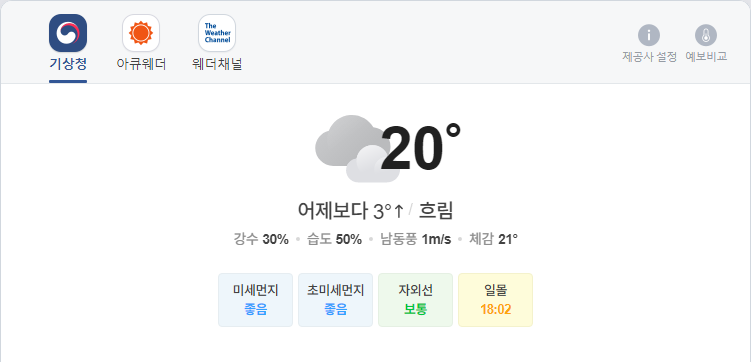
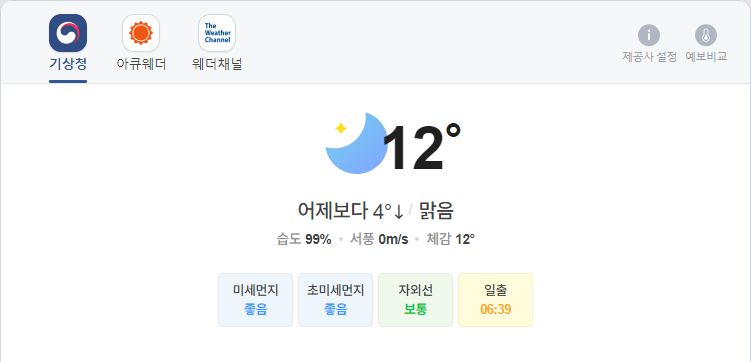
update result

diff --git a/README.md b/README.md
@@ -1,5 +1,5 @@
-##  2021-10-12 16:02:48   화요일 
-##### 날씨   -   어제보다 3° 높아요흐림  
+##  2021-10-13 05:57:43   수요일 
+##### 날씨   -   어제보다 4° 낮아요맑음  
 <center><img src="../img/naver_weather_week.png"></center>
 ----
 ----
@@ -13,17 +13,17 @@
 ##### 세계
 <table border="1" bordercolor="blue" align = "center" >
 <tr align = "right" > <td>Item</td><td>Point</td><td>Diff</td><td>Rate</td><td>Buy</td><td>Sell</td><td>...</td>  </tr>
-<tr align = "right" > <td>DOW</td><td>34,496.06</td><td>-250.19</td><td><font size="3" color="blue" >-0.72%</font></td><td><font size="3" color="black">0</font></td><td><font size="3" color="black">0</font></td><td>0</td>  </tr>
-<tr align = "right" > <td>NASDAQ</td><td>14,486.2</td><td>-93.34</td><td><font size="3" color="blue" >-0.64%</font></td><td><font size="3" color="black">0</font></td><td><font size="3" color="black">0</font></td><td>0</td>  </tr>
-<tr align = "right" > <td>S&P</td><td>4,361.19</td><td>-30.15</td><td><font size="3" color="blue" >-0.69%</font></td><td><font size="3" color="black">0</font></td><td><font size="3" color="black">0</font></td><td>0</td>  </tr>
-<tr align = "right" > <td>SHANHAI</td><td>3,536.9</td><td>-54.81</td><td><font size="3" color="blue" >-1.53%</font></td><td><font size="3" color="black">0</font></td><td><font size="3" color="black">0</font></td><td>0</td>  </tr>
-<tr align = "right" > <td>INDIA</td><td>59,964.48</td><td>-171.3</td><td><font size="3" color="blue" >-0.28%</font></td><td><font size="3" color="black">0</font></td><td><font size="3" color="black">0</font></td><td>0</td>  </tr>
+<tr align = "right" > <td>DOW</td><td>34,378.34</td><td>-117.72</td><td><font size="3" color="blue" >-0.34%</font></td><td><font size="3" color="black">0</font></td><td><font size="3" color="black">0</font></td><td>0</td>  </tr>
+<tr align = "right" > <td>NASDAQ</td><td>14,465.93</td><td>-20.27</td><td><font size="3" color="blue" >-0.14%</font></td><td><font size="3" color="black">0</font></td><td><font size="3" color="black">0</font></td><td>0</td>  </tr>
+<tr align = "right" > <td>S&P</td><td>4,350.65</td><td>-10.54</td><td><font size="3" color="blue" >-0.24%</font></td><td><font size="3" color="black">0</font></td><td><font size="3" color="black">0</font></td><td>0</td>  </tr>
+<tr align = "right" > <td>SHANHAI</td><td>3,546.94</td><td>-44.77</td><td><font size="3" color="blue" >-1.25%</font></td><td><font size="3" color="black">0</font></td><td><font size="3" color="black">0</font></td><td>0</td>  </tr>
+<tr align = "right" > <td>INDIA</td><td>60,284.31</td><td>148.53</td><td><font size="3" color="red" >0.25%</font></td><td><font size="3" color="black">0</font></td><td><font size="3" color="black">0</font></td><td>0</td>  </tr>
 </table>
 ----
 ##### 시장
 <table border="1" bordercolor="blue" align = "center" >
 <tr align = "right" > <td>Item</td><td>Price</td><td>Diff</td><td>Rate</td><td>Buy</td><td>Sell</td><td>...</td>  </tr>
-<tr align = "right" > <td>USD</td><td>1,199.0</td><td>3.0</td><td><font size="3" color="red">0.25%</font></td><td><font size="3" color="black">1,110</font></td><td><font size="3" color="black">0</font></td><td>0</td>  </tr>
+<tr align = "right" > <td>USD</td><td>1,196.0</td><td>0.5</td><td><font size="3" color="red">0.04%</font></td><td><font size="3" color="black">1,110</font></td><td><font size="3" color="black">0</font></td><td>0</td>  </tr>
 <tr align = "right" > <td>WTI</td><td>80.52</td><td>1.17</td><td><font size="3" color="red">1.47%</font></td><td><font size="3" color="black">29.0</font></td><td><font size="3" color="black">0</font></td><td>0</td>  </tr>
 <tr align = "right" > <td>GOLD</td><td>1,754.0</td><td>-1.7</td><td><font size="3" color="blue">-0.09%</font></td><td><font size="3" color="black">0</font></td><td><font size="3" color="black">0</font></td><td>0</td>  </tr>
 </table>
